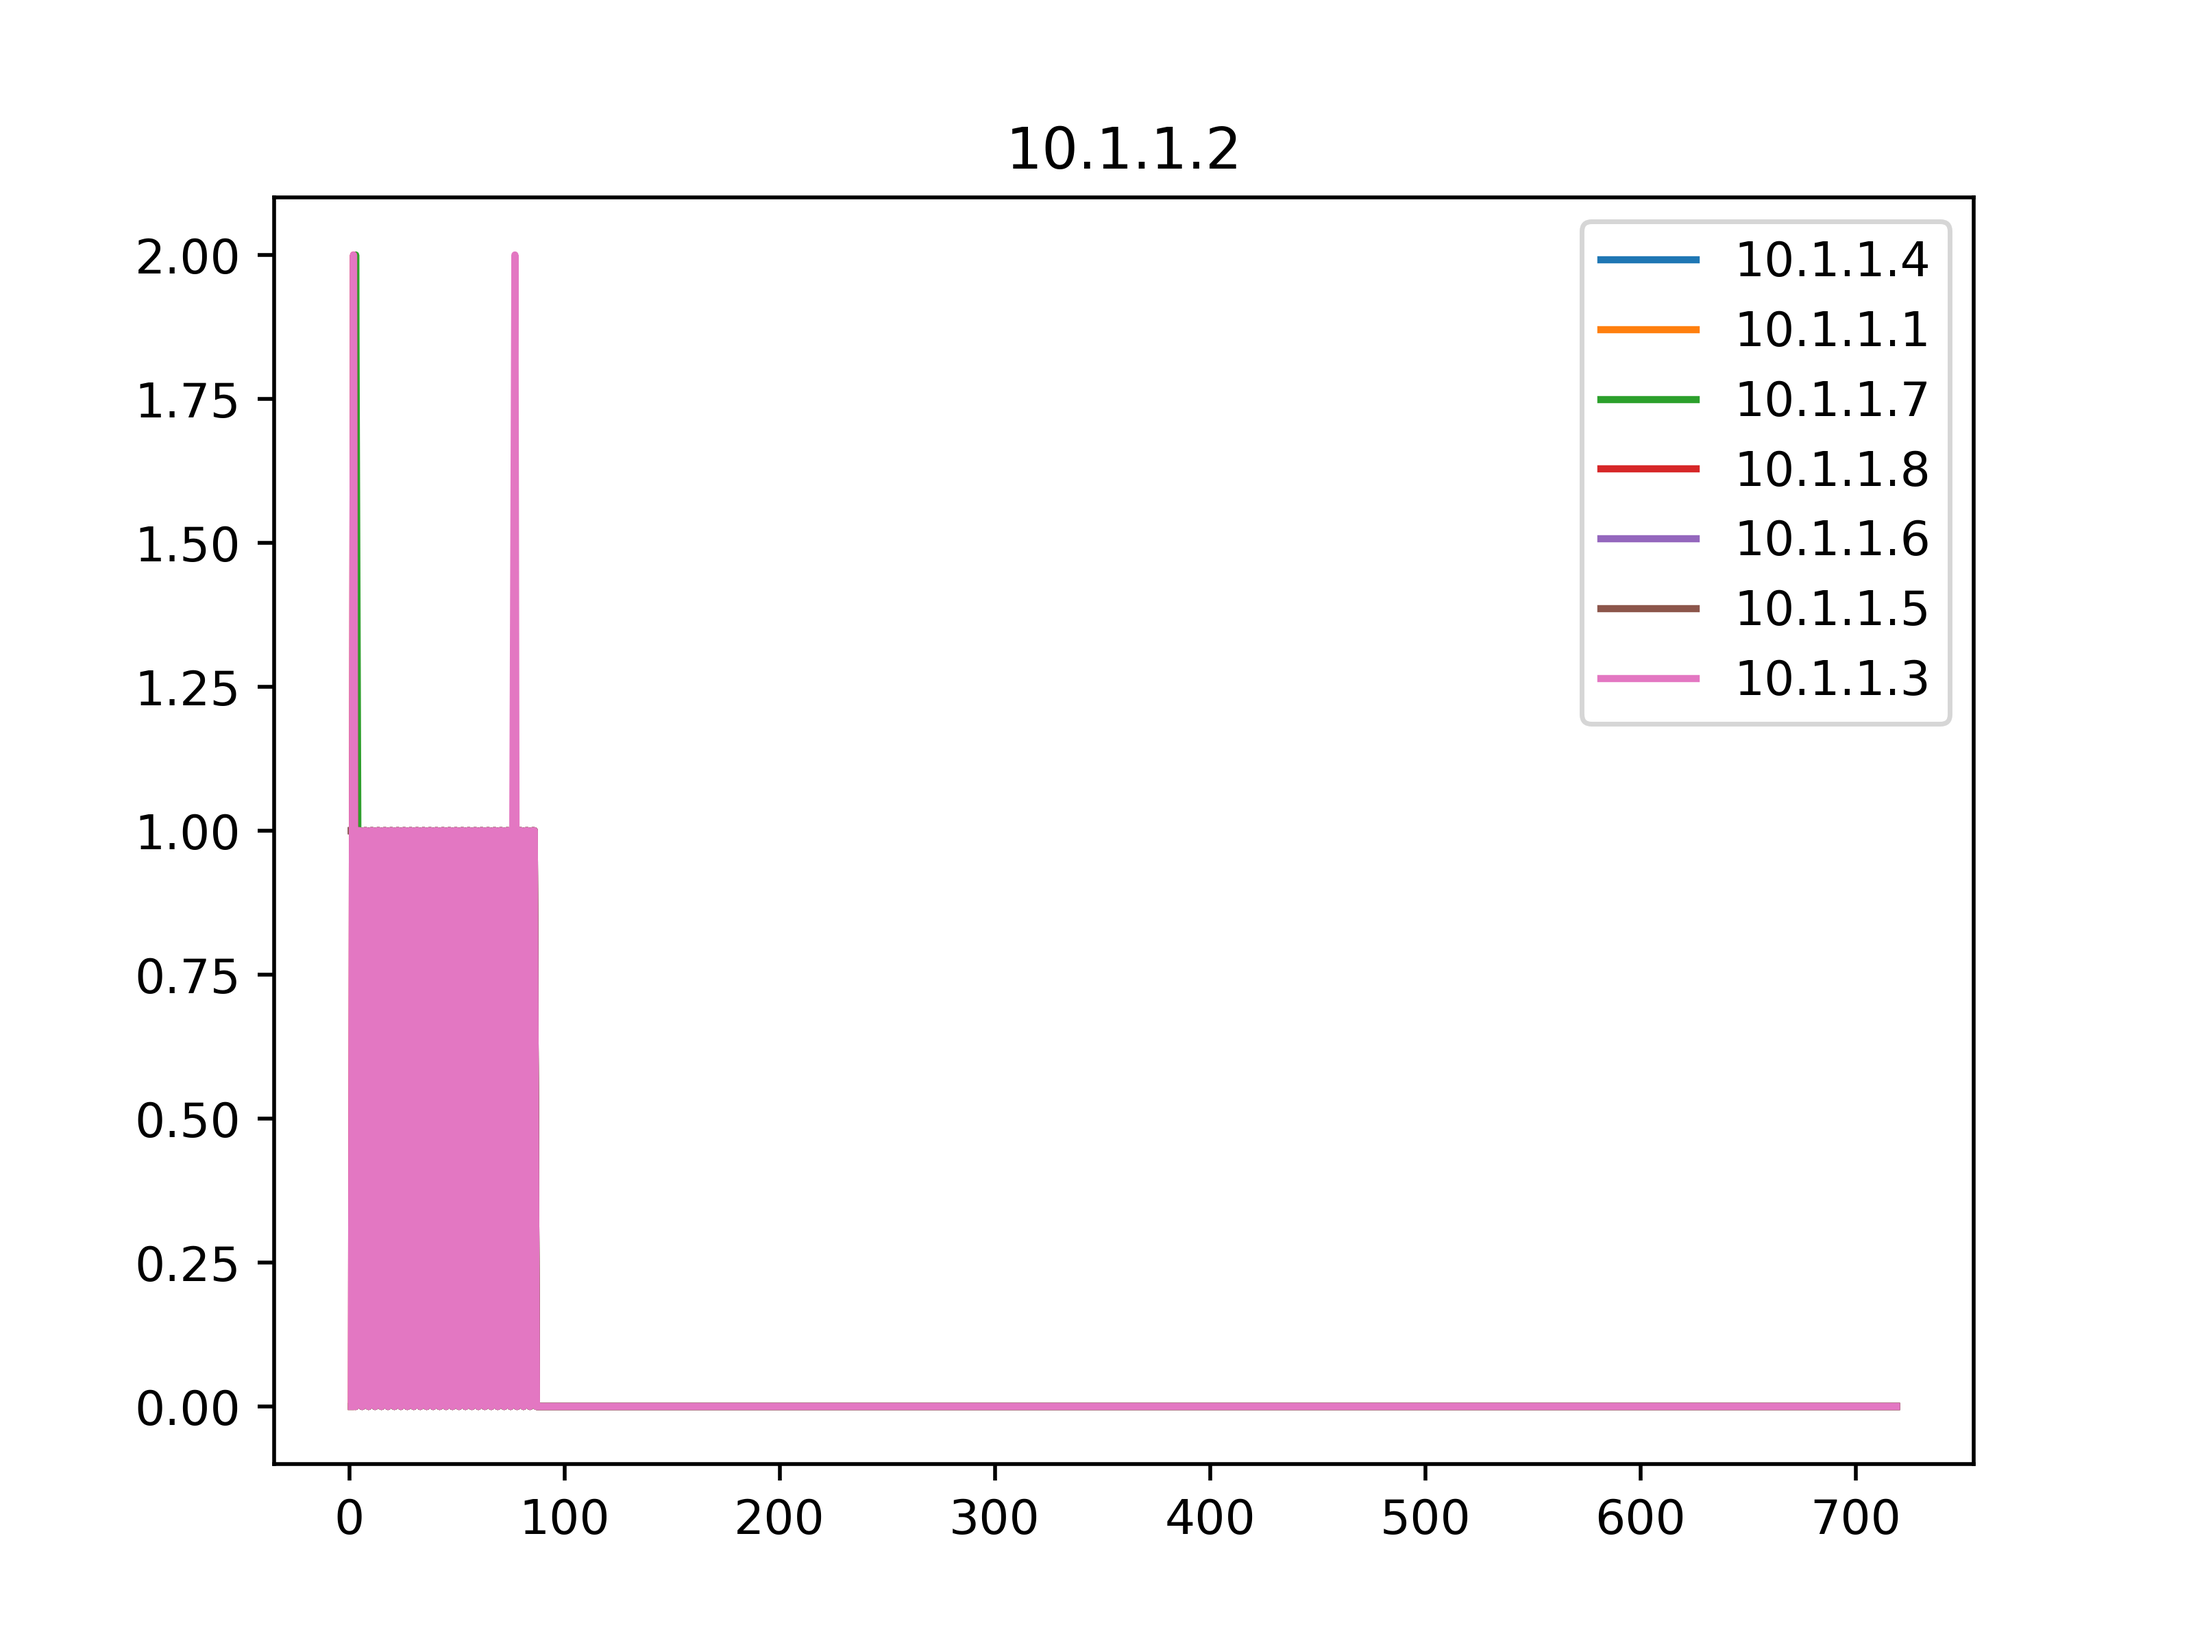
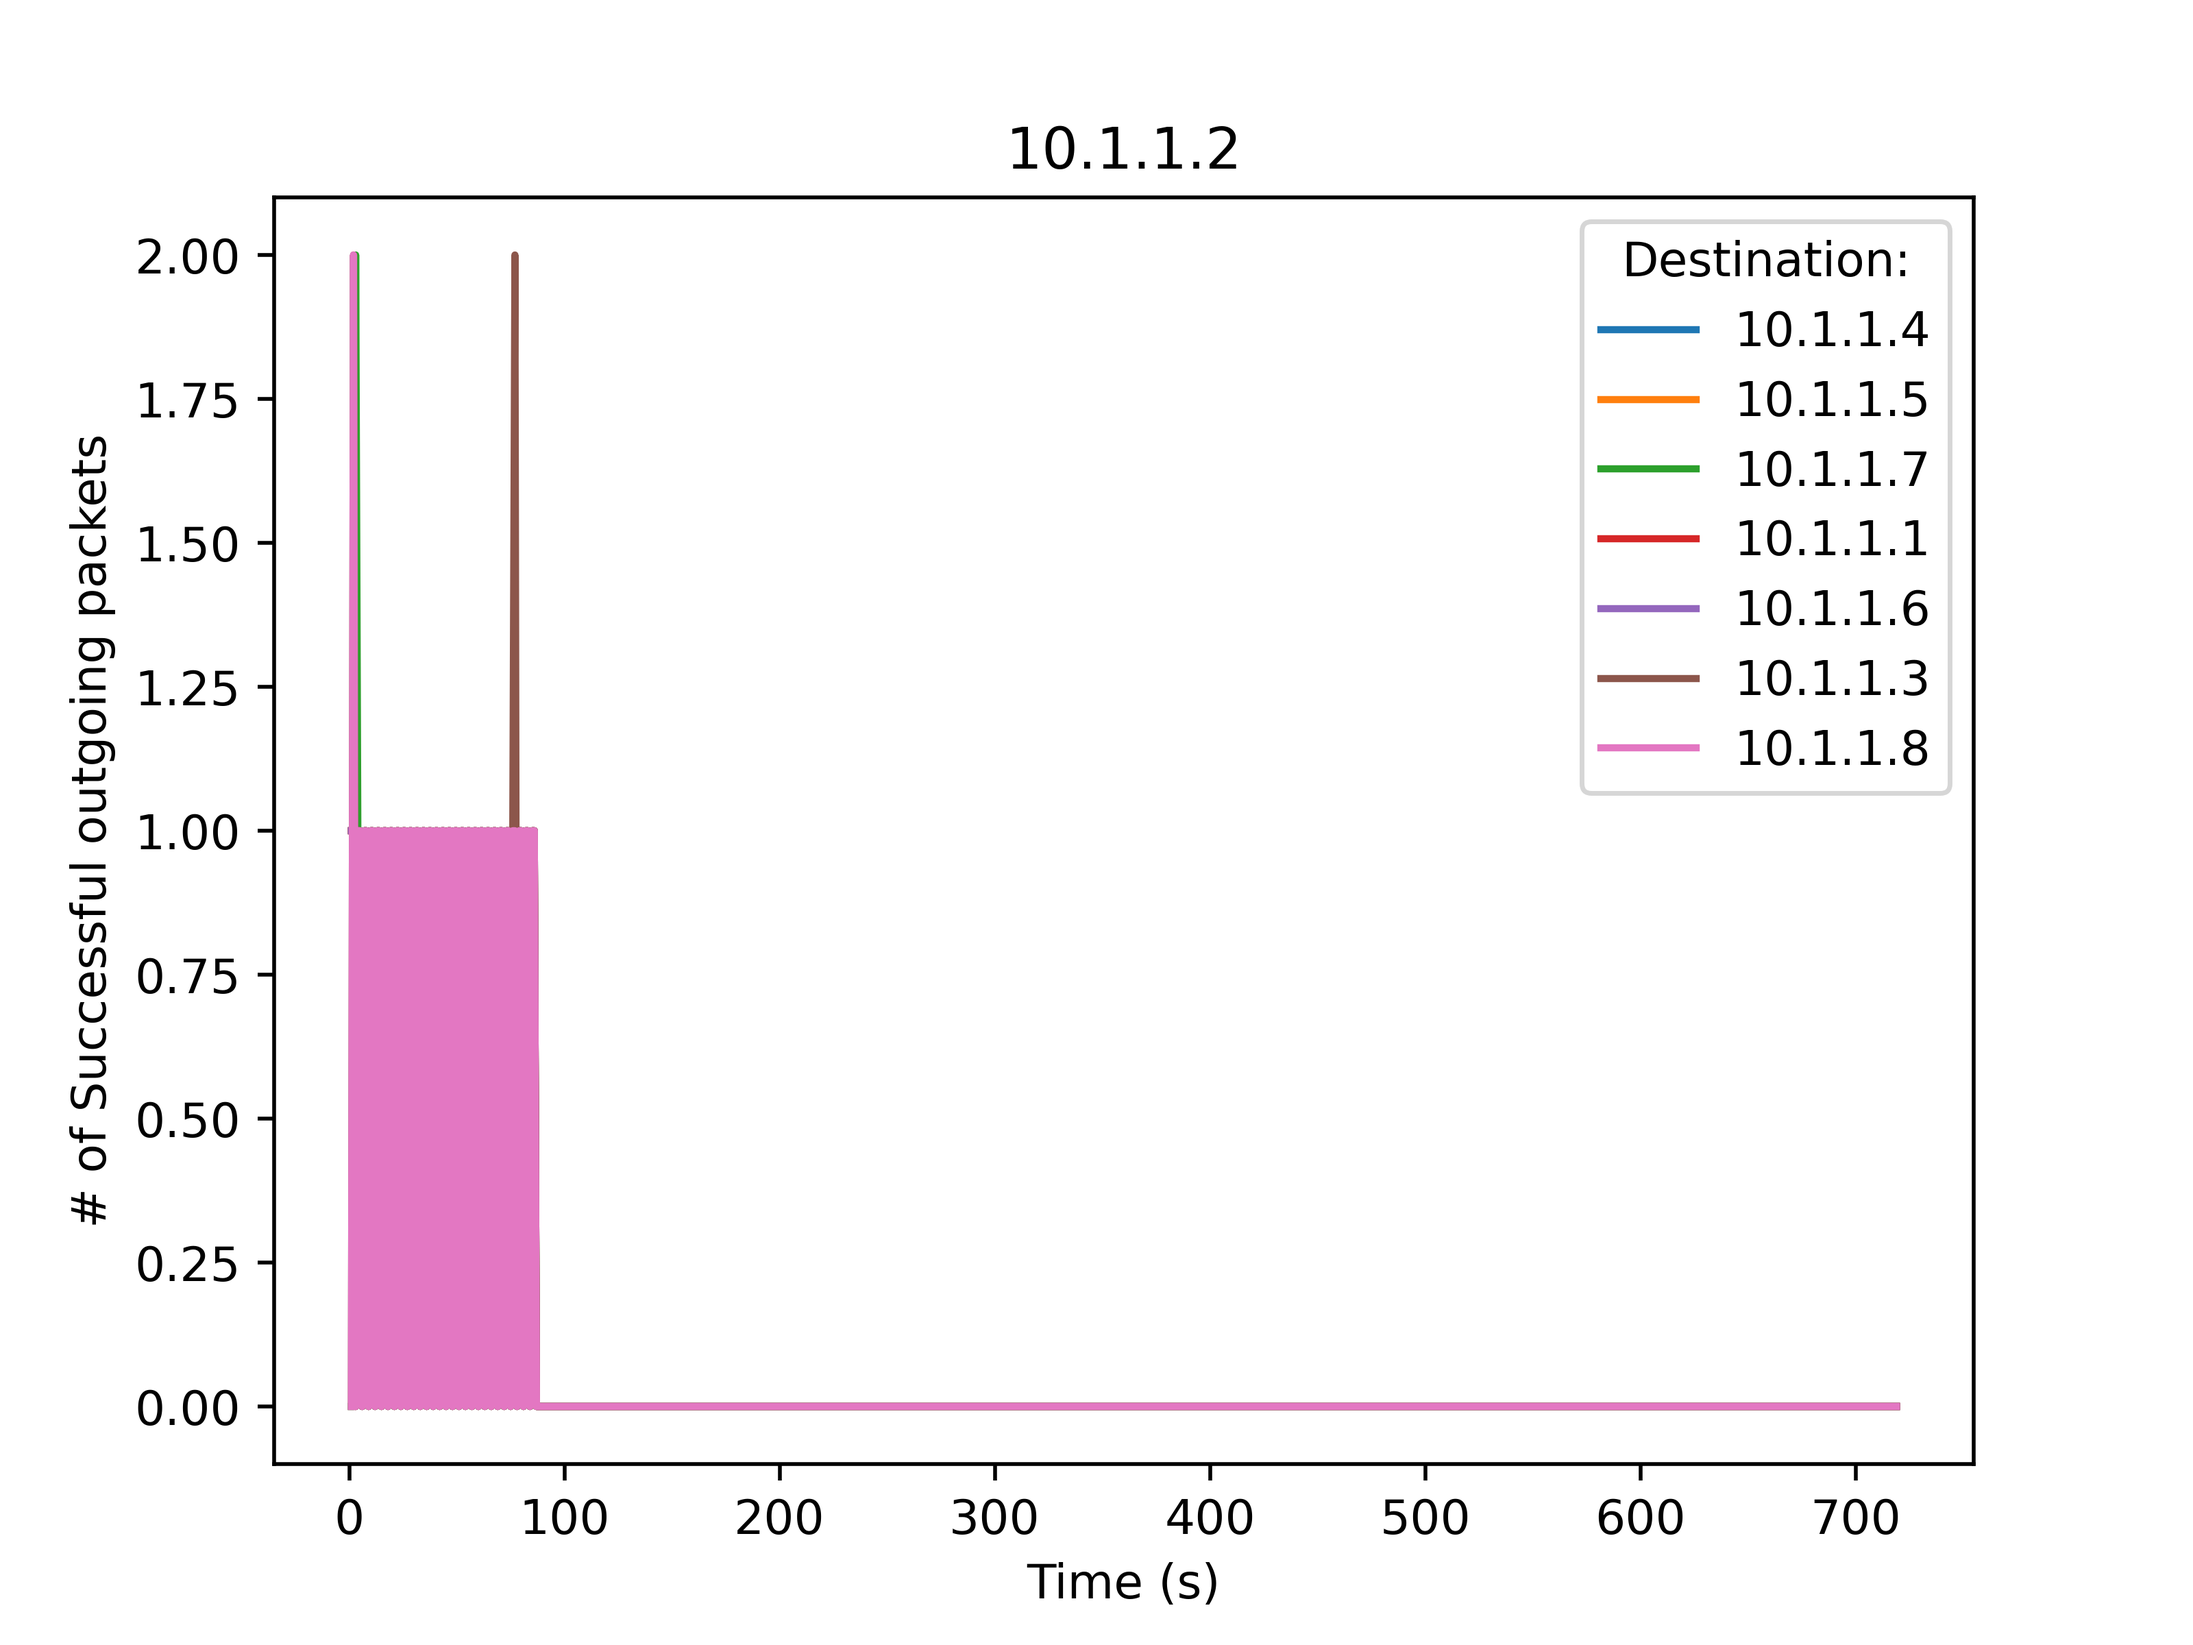
Added axis labels, legend, more argument options

diff --git a/src/Visualizer/pcapreader.py b/src/Visualizer/pcapreader.py
@@ -10,8 +10,10 @@ import os
 # program arguments
 parser = argparse.ArgumentParser(description="Graphs average packet times per second for each network device.")
 parser.add_argument("--file", default="network/UAV-0-0.pcap", help="A pcap file to read")
+parser.add_argument("--out", default="output", help="Output directory")
 args = parser.parse_args()
 file_name = args.file
+out_name = args.out + "/"
 
 cap = rdpcap(file_name)
 #first, let's iterate over the packets and grab all used IPs
@@ -40,6 +42,8 @@ x.extend(range(1, math.ceil(last.time)))
 for ip in ips:
     fig,ax = plt.subplots()
     ax.set_title(ip)
+    plt.xlabel("Time (s)")
+    plt.ylabel("# of Successful outgoing packets")
     for ip2 in ips: #this one keeps track of dest
         if (ip != ip2): #the source to itself will be a flatline so there's no reason to include it
             list = []
@@ -61,7 +65,7 @@ for ip in ips:
                 else:
                     y.append(0)
             ax.plot(x,y,label=ip2)
-    ax.legend();
-    os.makedirs(os.path.dirname("output/"), exist_ok=True)
-    plt.savefig( "output/" + ip + "-graph.png", dpi=500)
+    ax.legend(title="Destination:");
+    os.makedirs(os.path.dirname(out_name), exist_ok=True)
+    plt.savefig( out_name + ip + "-graph.png", dpi=500)
 
